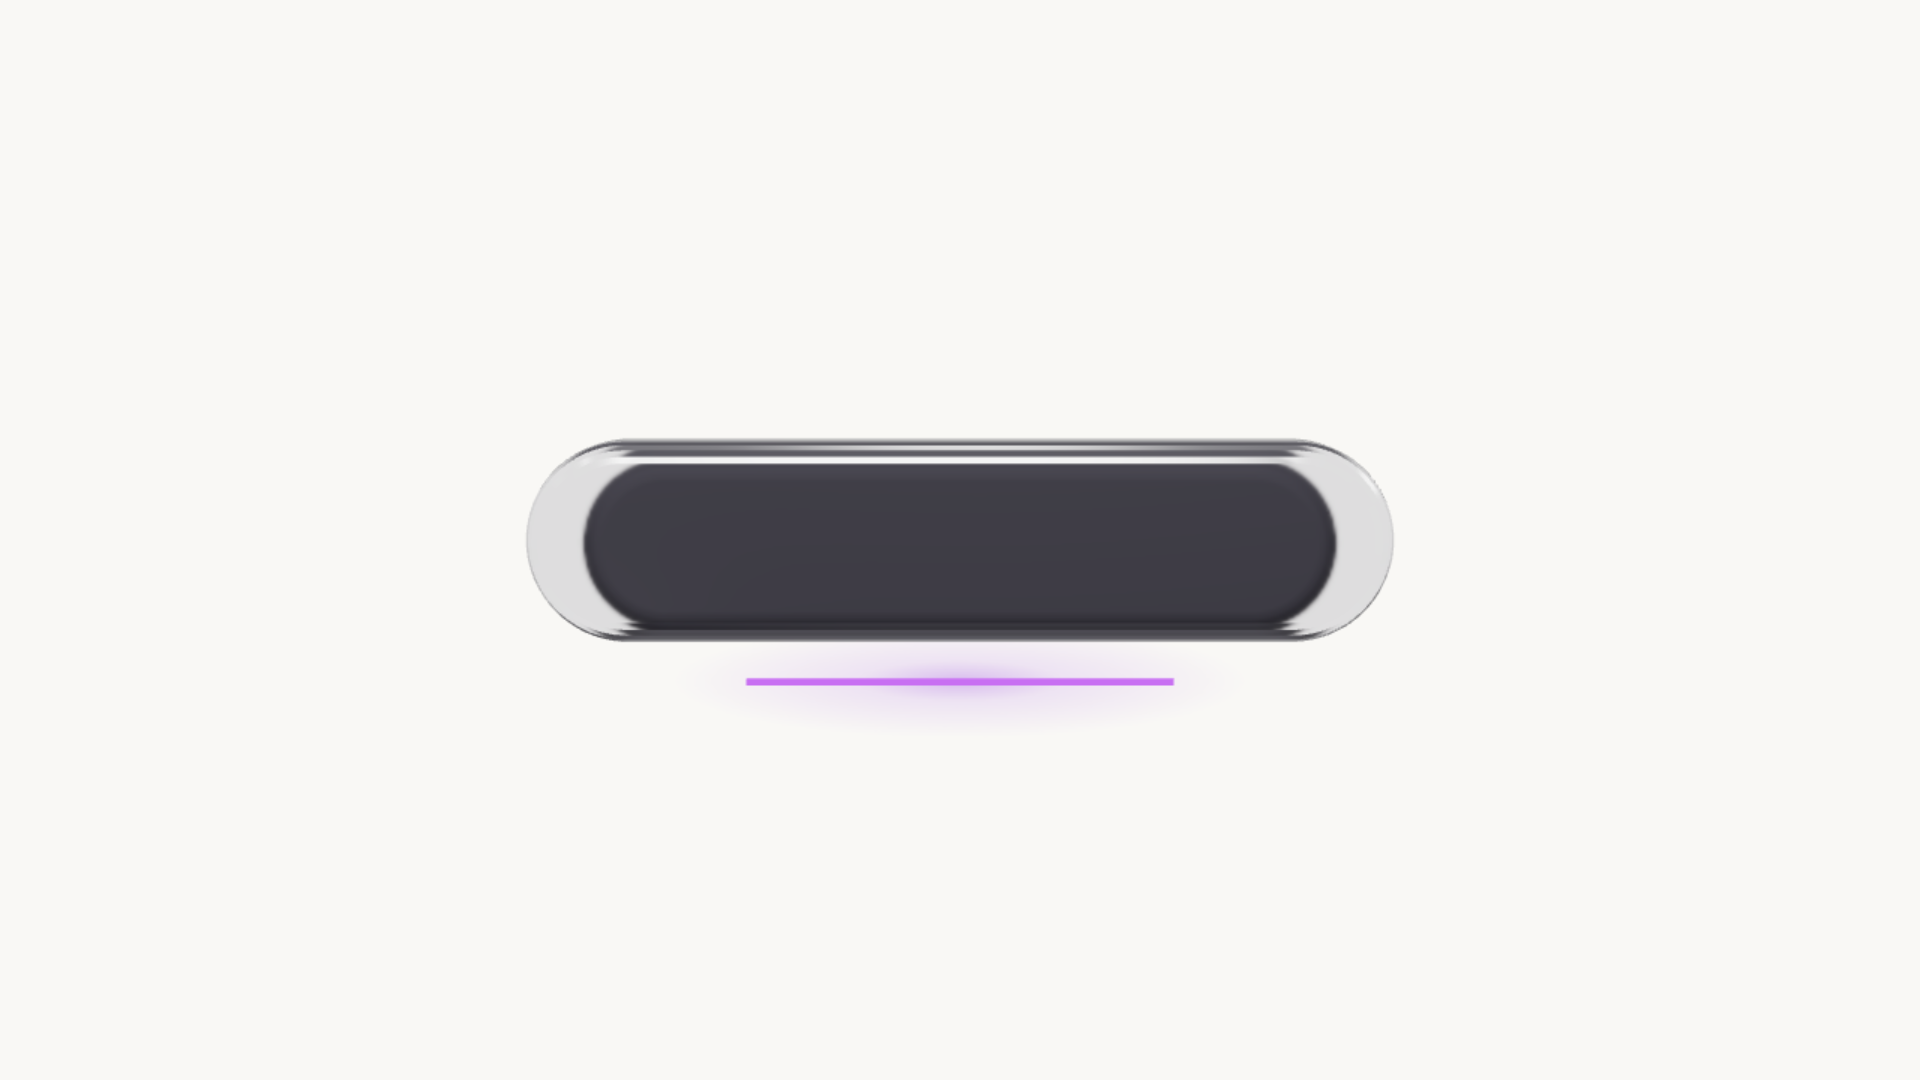
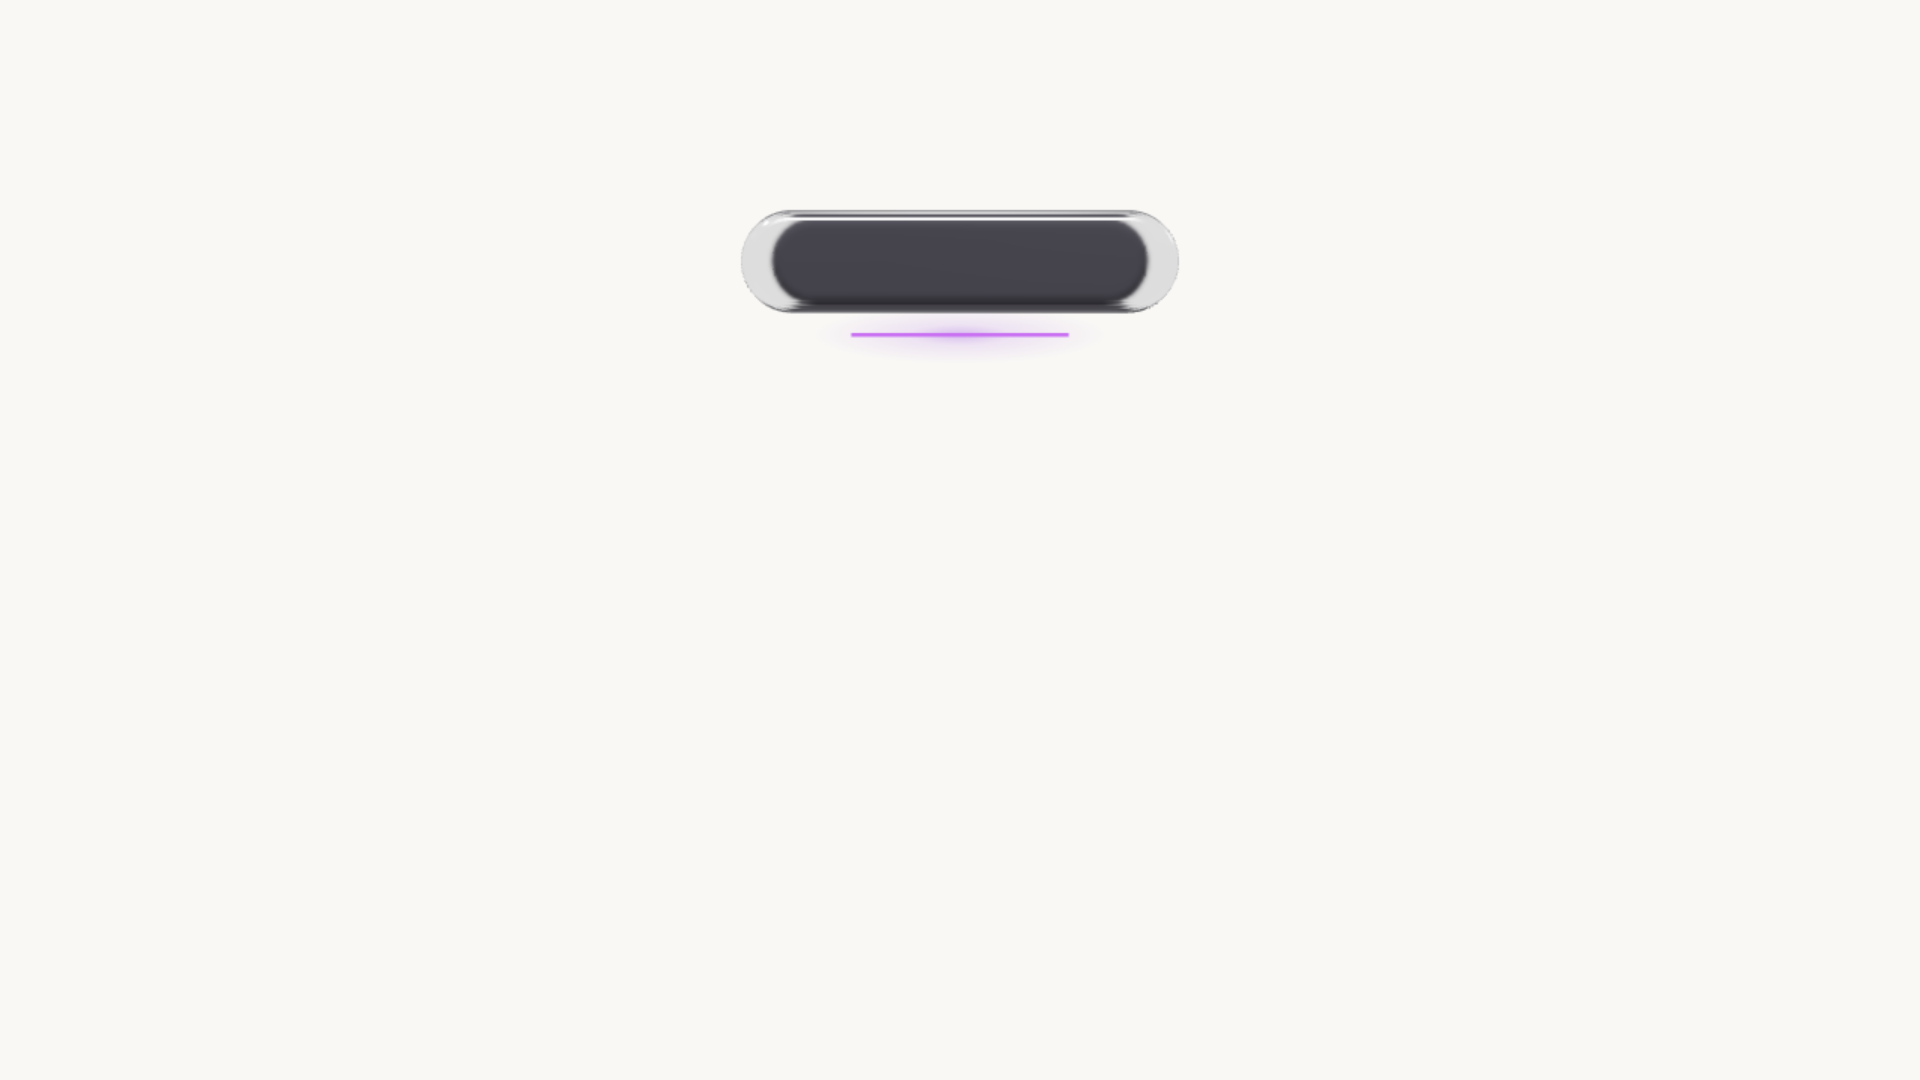
feat(stage): phone hero island rests whole above the H1, rides out ahead of the copy and re-forms in the hero pose before the pin

Changed region(s): [[0.25, 0.3972, 0.75, 0.6722], [0.375, 0.1833, 0.625, 0.3361]]

diff --git a/app/components/stage/hero.vue b/app/components/stage/hero.vue
@@ -25,13 +25,17 @@ const sineInOut = (t: number): number => 0.5 - Math.cos(Math.PI * t) / 2;
 const window01 = (ms: number, at: number, length: number): number => clamp01((ms - at) / length);
 const mix = (a: Vec3, b: Vec3, t: number): [number, number, number] => [a[0] + (b[0] - a[0]) * t, a[1] + (b[1] - a[1]) * t, a[2] + (b[2] - a[2]) * t];
 
-// The island sits centred on the right third of a 16:9 frame from 9 units back, then glides to the hero preset.
-const restRight = (hero: CameraPreset): CameraPreset => {
-  const distance = 9;
-  const offset = (2 / 3) * distance * Math.tan((hero.fov * Math.PI) / 360) * (16 / 9);
+const restAt = (hero: CameraPreset, { distance, right, up }: { distance: number; right: number; up: number }): CameraPreset => {
+  const height = 2 * distance * Math.tan((hero.fov * Math.PI) / 360);
   const slope = (hero.position[1] - hero.target[1]) / (hero.position[2] - hero.target[2]);
-  return { fov: hero.fov, position: [-offset, hero.target[1] + distance * slope, distance], target: [-offset, hero.target[1], 0] };
+  const target: Vec3 = [-right * height, hero.target[1] - up * height, 0];
+  return { fov: hero.fov, position: [target[0], target[1] + distance * slope, distance], target };
 };
+
+// Fixed rather than measured from the layout, so one poster matches the first frame on every phone under cover framing.
+const REST = { wide: { distance: 9, right: 16 / 27, up: 0 }, narrow: { distance: 12, right: 0, up: 0.257 } } as const;
+// On phones the copy scrolls up through the island's rest spot, so the island rides out ahead and re-forms in the hero pose behind it.
+const RIDE = { speed: 1.5, until: 0.3, fadeAt: 0.45, drawAt: 0.55, length: 0.2 } as const;
 
 const setup: SceneSetup = async ({ canvas: surface, film, mobile }) => {
   const { createIsland, openStage, readPalette, STAGE_CAMERA } = await import("~/utils/stage/island");
@@ -41,7 +45,7 @@ const setup: SceneSetup = async ({ canvas: surface, film, mobile }) => {
   await stage.warm();
 
   const hero = STAGE_CAMERA.hero;
-  const rest = restRight(hero);
+  const rest = restAt(hero, REST.wide);
   const wide = matchMedia("(min-width: 768px)");
   const fine = matchMedia("(hover: hover) and (pointer: fine)");
 
@@ -96,13 +100,20 @@ const setup: SceneSetup = async ({ canvas: surface, film, mobile }) => {
     steer(x, y, gentle);
   };
 
+  const pose = (): Pick<CameraPreset, "position" | "target"> => {
+    if (lost) return hero;
+    const glide = sineInOut(clamp01(progress));
+    if (wide.matches) return { position: mix(rest.position, hero.position, glide), target: mix(rest.target, hero.target, glide) };
+    return progress < RIDE.until ? restAt(hero, { ...REST.narrow, up: REST.narrow.up + RIDE.speed * progress }) : hero;
+  };
+
   const frame = (ms: number, dt: number): boolean => {
     const lerping = stage.advance(dt);
     if (follow) track(ms);
-    const glide = lost || !wide.matches ? 1 : sineInOut(clamp01(progress));
-    const from = lost || !wide.matches ? hero : rest;
-    const position = mix(from.position, hero.position, glide);
-    const target = mix(from.target, hero.target, glide);
+    const { position, target } = pose();
+    const reforming = !lost && !wide.matches && progress >= RIDE.until;
+    const shown = reforming ? MOTION_EASE.out(window01(progress, RIDE.fadeAt, RIDE.length)) : 1;
+    const drawn = reforming ? MOTION_EASE.out(window01(progress, RIDE.drawAt, RIDE.length)) : 1;
     // Breath and tilt fade out at the end of the glide so the handoff lands on the sequence's still frame 0.
     const calm = lost ? 1 : 1 - clamp01((progress - SETTLE_FROM) / (1 - SETTLE_FROM));
 
@@ -136,7 +147,10 @@ const setup: SceneSetup = async ({ canvas: surface, film, mobile }) => {
         draw: MOTION_EASE.out(window01(ms, ENTER.drawAt, ENTER.drawFor)),
         breathe: calm,
       });
-    } else island.pose({ ms, broken: lost, breathe: calm });
+    } else {
+      if (root.value && root.value.style.opacity !== String(shown)) root.value.style.opacity = String(shown);
+      island.pose({ ms, broken: lost, scale: 0.95 + 0.05 * shown, draw: drawn, breathe: calm });
+    }
 
     stage.render();
     // From progress 1 calm is 0, so the frame stops changing and the sequence covers it; rendering it again is waste.
